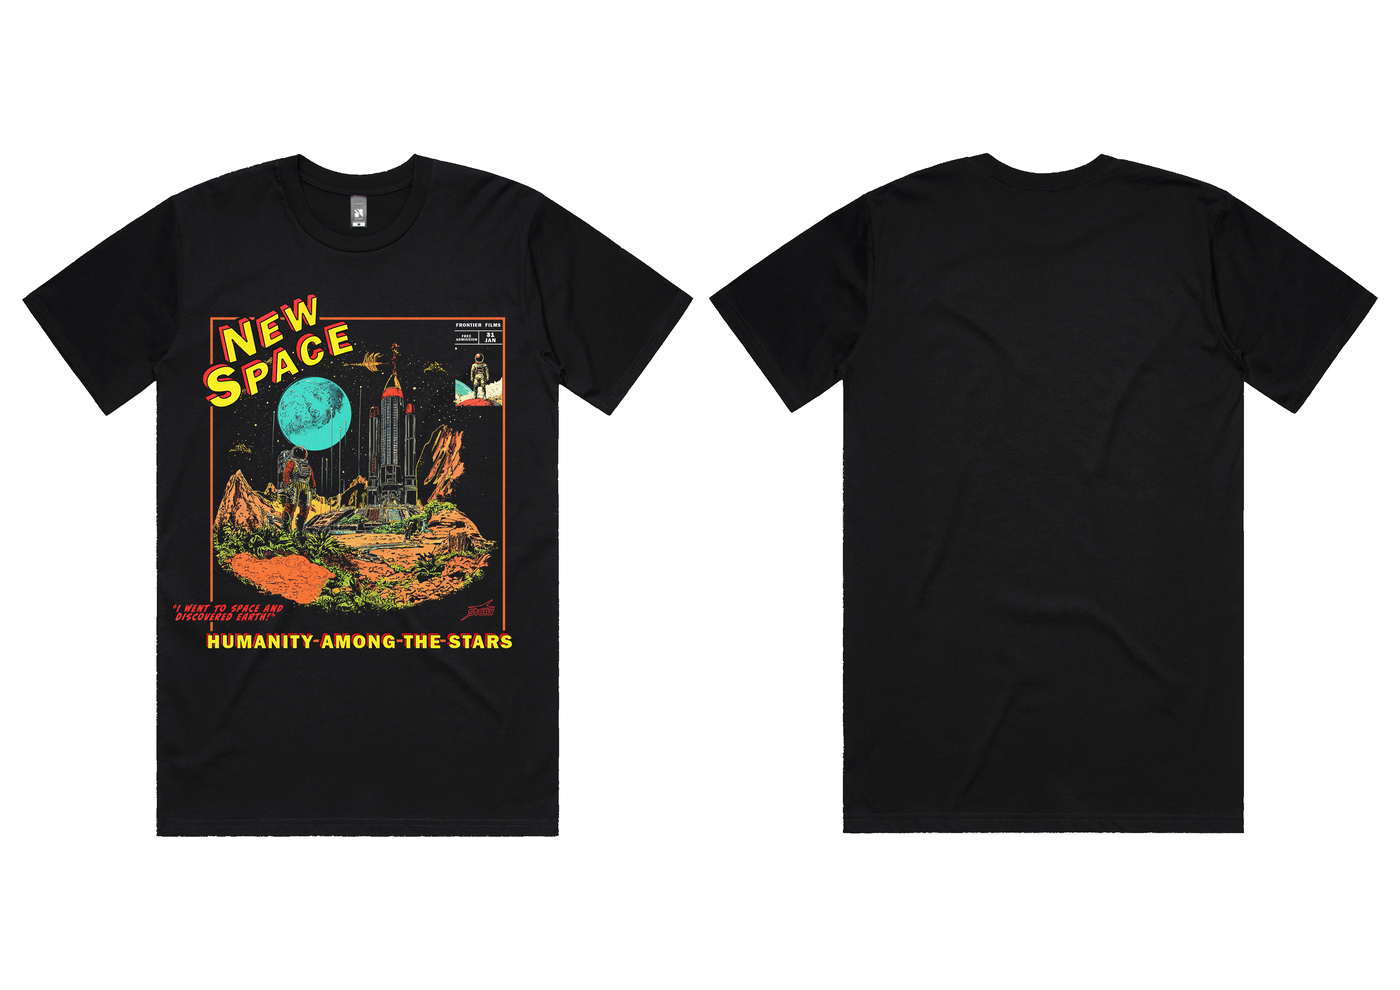
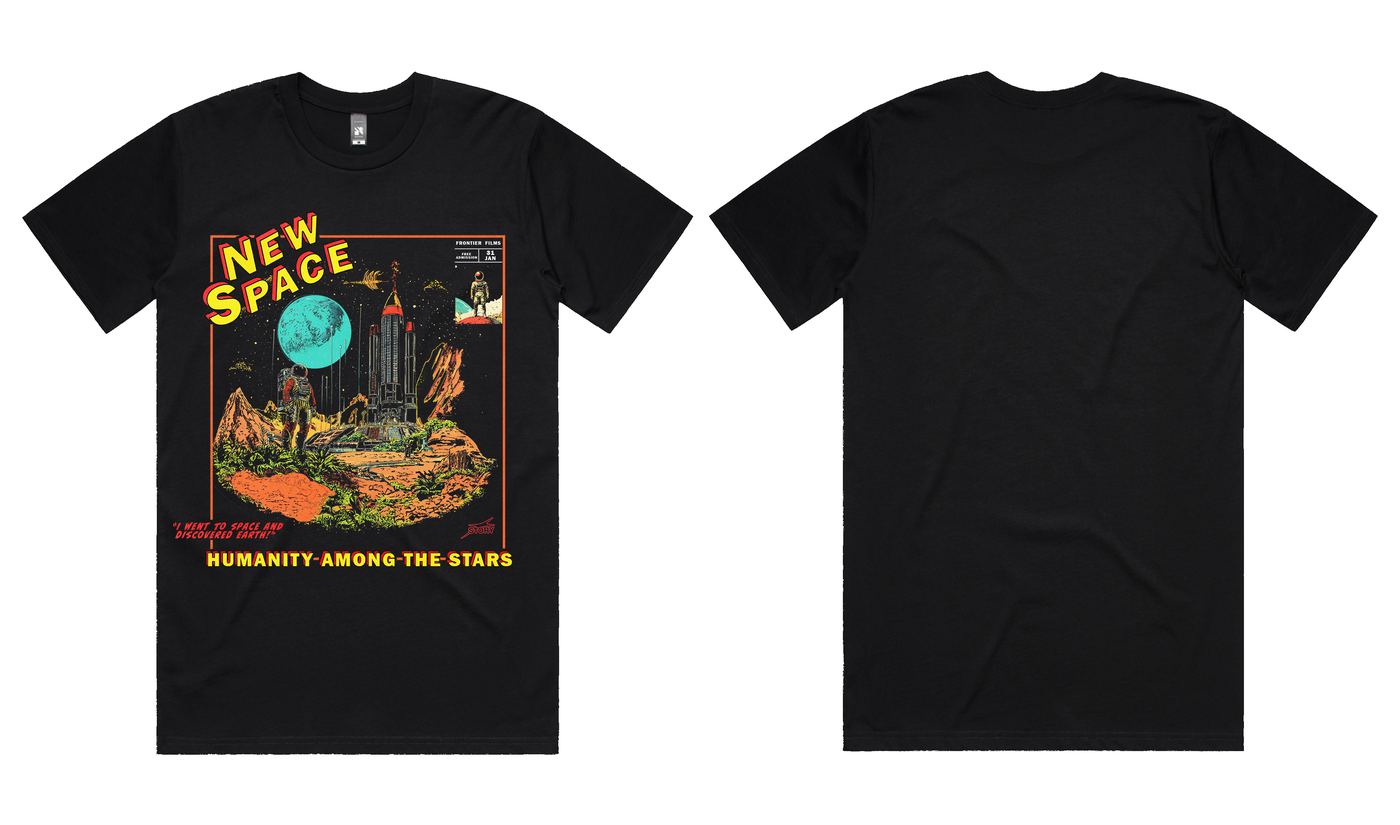
merch

diff --git a/work/merch.html b/work/merch.html
@@ -54,20 +54,24 @@
   </div>
 
   <h2 class="sec rv">The Pieces</h2>
-    <div class="designs">
-    <div class="dz rv"><img loading="lazy" src="../img/apparel/new-space.png" alt="New Space — Humanity Among the Stars tee artwork"></div>
-    <div class="dz rv"><img loading="lazy" src="../img/apparel/humanity-among-the-stars.png" alt="Humanity Among the Stars artwork"></div>
+  <!-- hover any piece with a shirt to see it on fabric -->
+  <div class="piece-hero rv">
+    <img class="base" src="../img/apparel/space-race.png" alt="Space Race tee artwork">
+    <img class="swapimg" loading="lazy" src="../img/apparel/tee-space-race.png" alt="Space Race tee, front and back">
+  </div>
+  <div class="designs">
+    <div class="dz rv">
+      <img loading="lazy" src="../img/apparel/new-space.png" alt="New Space — Humanity Among the Stars tee artwork">
+      <img class="swapimg" loading="lazy" src="../img/apparel/tee-new-space.png" alt="New Space tee, front and back">
+    </div>
+    <div class="dz rv">
+      <img loading="lazy" src="../img/apparel/humanity-among-the-stars.png" alt="Humanity Among the Stars artwork">
+      <img class="swapimg" loading="lazy" src="../img/apparel/tee-humanity.png" alt="Humanity Among the Stars tee, front and back">
+    </div>
     <div class="dz rv"><img loading="lazy" src="../img/apparel/star-stuff.png" alt="Story — The cosmos is within us artwork"></div>
-    <div class="dz rv"><img loading="lazy" src="../img/apparel/space-race.png" alt="Space Race tee artwork"></div>
     <div class="dz rv"><img loading="lazy" src="../img/apparel/gardens-on-mars.png" alt="Girls Just Want Gardens on Mars artwork"></div>
     <div class="dz rv"><img loading="lazy" src="../img/apparel/first-beer-in-space.png" alt="The First Beer in Space artwork"></div>
     <div class="dz rv"><img loading="lazy" src="../img/apparel/got-itar.png" alt="Got ITAR? artwork"></div>
-  </div>
-  <h2 class="sec rv" style="margin-top:64px">On fabric</h2>
-  <div class="bts">
-    <div class="ph rv"><img loading="lazy" src="../img/apparel/tee-new-space.png" alt="New Space tee, front and back" style="object-fit:contain;background:#f2f2f2"></div>
-    <div class="ph rv"><img loading="lazy" src="../img/apparel/tee-space-race.png" alt="Space Race tee, front and back" style="object-fit:contain;background:#f2f2f2"></div>
-    <div class="ph rv"><img loading="lazy" src="../img/apparel/tee-humanity.png" alt="Humanity Among the Stars tee, front and back" style="object-fit:contain;background:#f2f2f2"></div>
   </div>
 </main>
 

diff --git a/css/style.css b/css/style.css
@@ -156,7 +156,7 @@ h2.sec {
 
 /* apparel / design pieces — contained on tiles, never cropped */
 .designs { display: grid; grid-template-columns: repeat(3, 1fr); gap: 14px; }
-.designs .dz { aspect-ratio: 1/1; background: #f2f2f2; display: flex; align-items: center; justify-content: center; padding: 9%; }
+.designs .dz { aspect-ratio: 1/1; background: transparent; display: flex; align-items: center; justify-content: center; padding: 5%; position: relative; }
 .designs .dz img { max-width: 100%; max-height: 100%; object-fit: contain; }
 body:not(.light) .designs .dz { background: #0e0e0e; }
 @media (max-width: 760px) { .designs { grid-template-columns: repeat(2, 1fr); } }
@@ -469,3 +469,12 @@ nav .links .dropmenu a { display: block; margin-left: 0; padding: 5px 0; font-si
 /* hover-to-play card loops */
 .thumb .hoverplay { position: absolute; inset: 0; width: 100%; height: 100%; object-fit: cover; opacity: 0; transition: opacity .35s; }
 .vcard:hover .thumb .hoverplay { opacity: 1; }
+
+/* apparel: art-first, hover shows the shirt */
+.piece-hero { position: relative; max-width: 720px; margin-bottom: 72px; }
+.piece-hero .base { display: block; width: 100%; }
+.piece-hero .swapimg, .designs .dz .swapimg {
+  position: absolute; inset: 0; width: 100%; height: 100%; object-fit: contain;
+  background: #fff; opacity: 0; transition: opacity .35s;
+}
+.piece-hero:hover .swapimg, .designs .dz:hover .swapimg { opacity: 1; }
